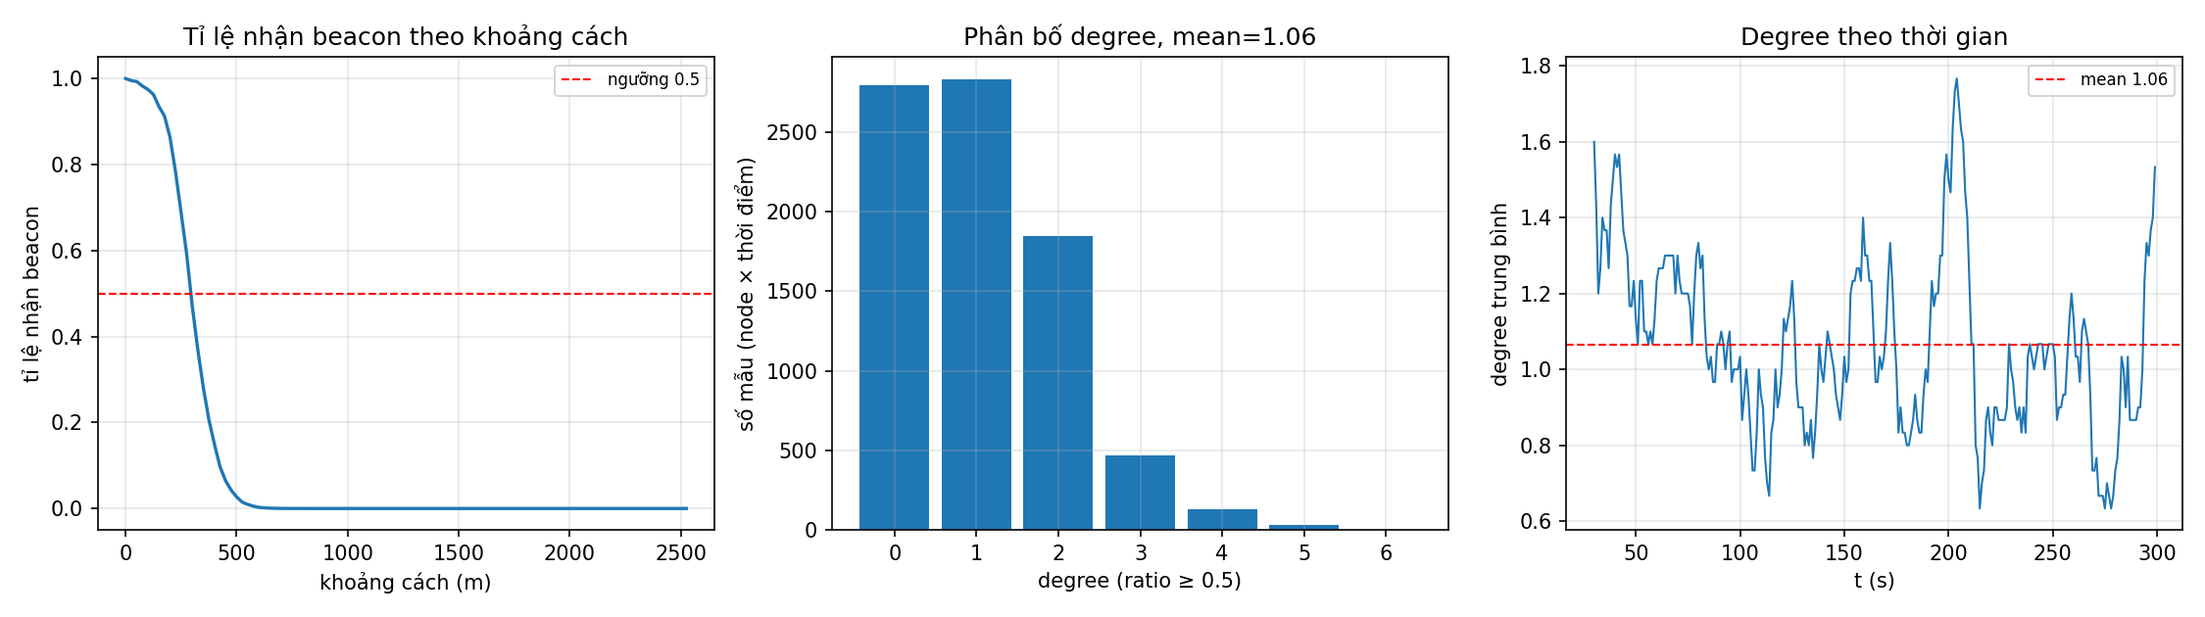
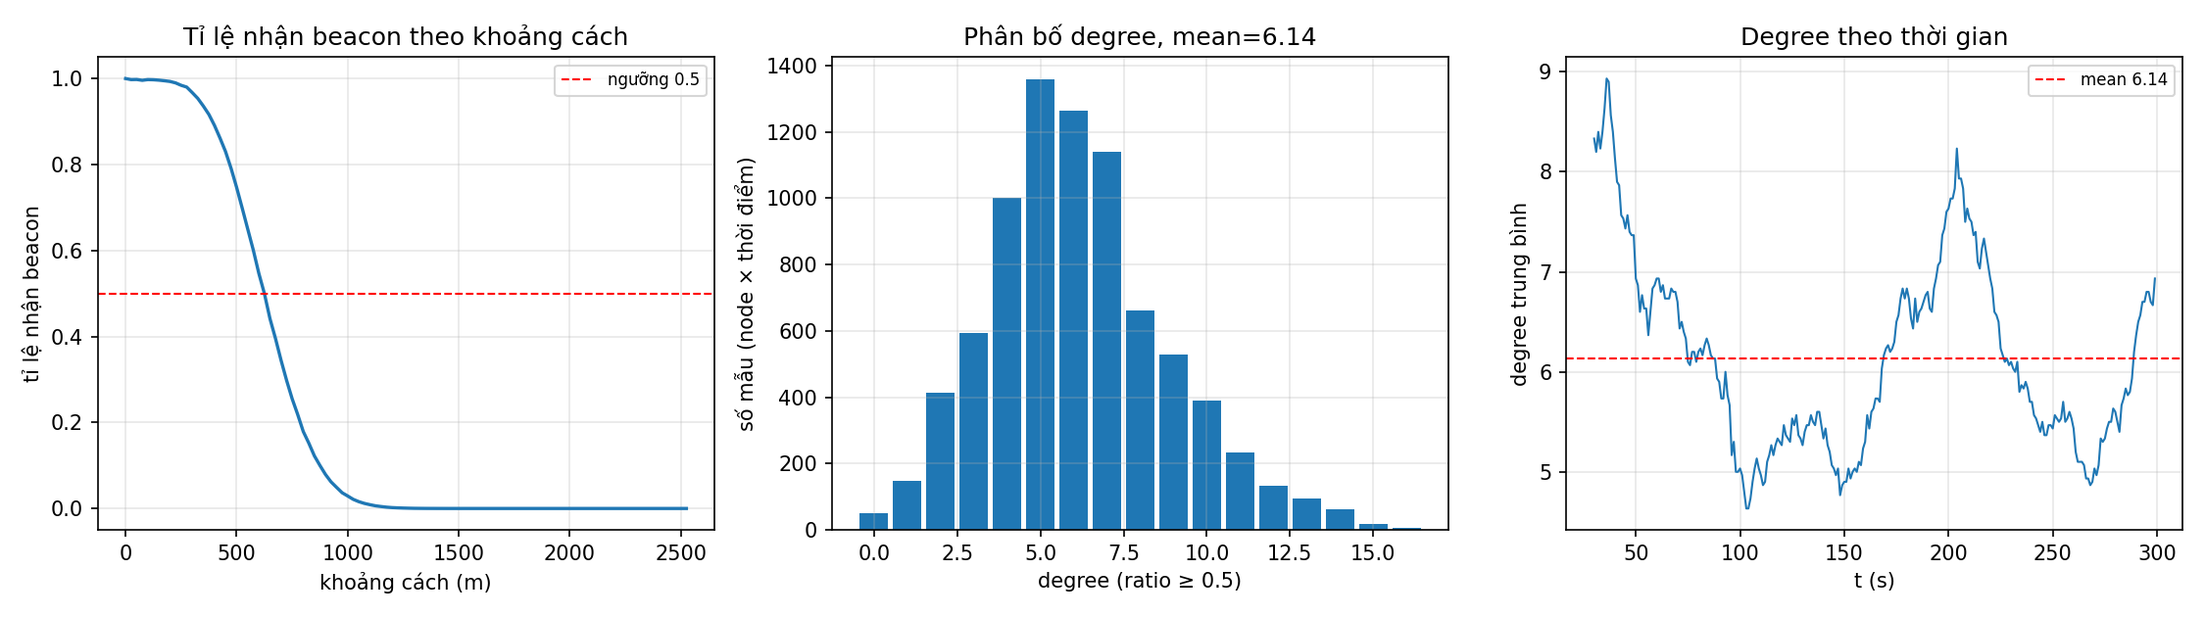
P1: bao cao -- hai cong khong dat, degree 5.28 cua conf khong tai lap duoc
Do bang topology-probe, 3 run cung seed va positions.csv byte-identical (stream
RNG cua mobility doc lap voi radio) nen la so sanh co doi chung:

  20 dBm / san -82  (conf hien tai)  R(0.5)=294 m  degree 1.06  co lap 34.5%
  19 dBm / san -101 (de xuat)        R(0.5)=625 m  degree 6.14  co lap  0.6%
  27 dBm / san -101                  R(0.5)=1458 m degree 22.33

Hai cong khong dat o cau hinh hien tai. Khong noi nguong, khong tu sua config.

conf ghi degree 5.28 o 20 dBm; do lai duoc 1.06 (chat) hoac 3.99 (long) o dung
cong suat va dung san do. Khong dinh nghia link nao cho ra 5.28. Scenario sinh
ra no khong co trong cay. Phep do moi co kiem chung noi tai ma con so kia khong
co: degree tinh tu phan bo khoang cach that trong positions.csv, doc lap voi
beacon, khop trong ~15%.

12 dBm/-101 bi loai bang so hoc: ngan sach 102 dB dung bang 20 dBm/-82.

Phat hien mobility: z-span moi node trung binh 107 m tren dai 500 m, 100% node
quet duoi nua dai. Khong don bien (lop bien 1.36x ky vong deu) nhung kich ban
la vi tri 3D voi dong luc hoc quasi-2D. Histogram gop khong thay duoc dieu nay.

Canh bao "degree > 11 lam abort" cua conf da loi thoi: run o degree 22.33 chay
het 300 s exit sach. Patch phy-entity lan dau duoc kiem that -- muc Bat thuong
5 cua P0 dong.

diff --git a/reports/P1-config.md b/reports/P1-config.md
@@ -1,0 +1,135 @@
+# P1 — Đóng băng cấu hình
+
+Ngày 2026-07-26 | Git SHA `b9013a34d` | Config SHA `9097e996ce3d2d37` (`fanet-tier2.conf` + `p1-topology.conf`)
+
+## Đã làm
+
+- **`scratch/linkscore/sim-config.h`** — parser dùng chung cho mọi scenario. Precedence `default < config < flag` (quét `--config` trong argv trước `CommandLine::Parse`, nạp file, rồi `Parse` ghi đè bằng flag tường minh). Nhiều `--config` ghép được, file sau ghi đè file trước.
+- **Registry key hai tầng.** Key ngoài `KnownKeys()` → `NS_FATAL_ERROR` (typo); key trong registry mà scenario không đọc → cảnh báo liệt kê ra. Một tầng thì config phân lớp gãy vì `topology-probe` không biết key của `link-probe`. Đã kiểm cả hai đường, kèm lối thoát `--allowUnknownKeys`.
+- Mỗi run in **provenance từng key**: `default` / tên file config / `cmdline (ghi đè <file>)`.
+- **`sim-config/p0-link-probe.conf`, `sim-config/p1-topology.conf`** — overlay, chỉ ghi chỗ lệch so với nominal. Khối physics định nghĩa **một lần** trong `fanet-tier2.conf`; khối lặp lại là khối sẽ trôi.
+- **`fanet-tier2.conf`: thêm `gmDirMin`/`gmDirMax`** (key còn thiếu, không đổi key đã có — attribute default của ns-3 vốn là `Uniform[0, 2π]` nên run cũ vẫn so sánh được).
+- **`run_manifest.py`: `--config` lặp lại được**, hash gộp theo thứ tự nạp + hash từng file. (`config_sha256` vốn đã có sẵn; P0 không dùng chỉ vì tôi tưởng chưa có file config.)
+- **Chạy lại toàn bộ P0 ở cây sạch** — 11 run, tất cả `git_dirty: false`, SHA `294c481df`, ép bằng `--fail-on-dirty`.
+- **`scratch/linkscore/topology-probe.cc`** + **`analysis/validate/p1_topology.py`** — 3 run đo topology.
+
+## Cổng nghiệm thu
+
+| Chỉ số | Ngưỡng | Đo được | Đạt |
+|---|---|---|---|
+| P0 chạy lại: σ mỗi tier khớp số cũ | ±0.02 dB | **0.000 dB** cả ba tier (1.594 / 2.026 / 2.755) | ✓ |
+| P0 chạy lại: ba cổng P0 | đều đạt | đều đạt, số liệu trùng đến 3 chữ số | ✓ |
+| Config: key sai chính tả | phải dừng | `NS_FATAL_ERROR`, chỉ đúng file:dòng | ✓ |
+| **Degree trung bình** ở config hiện tại (20 dBm / sàn −82) | [4.0, 8.0] | **1.06** | ✗ |
+| **Tỉ lệ thời gian cô lập** ở config hiện tại | ≤ 10% | **34.5%** | ✗ |
+| Mật độ lớp biên | ≤ 2× kỳ vọng đều | 1.36× (z, xấu nhất) | ✓ |
+| Degree ở cấu hình đề xuất (19 dBm / sàn −101) | [4.5, 6.5] | **6.14**, cô lập 0.6% | ✓ |
+
+**Hai cổng không đạt ở cấu hình hiện tại của `fanet-tier2.conf`.** Không nới ngưỡng, không tự sửa config — đề xuất ở dưới.
+
+## Số liệu chính
+
+### a) Degree — và số 5.28 của conf không tái lập được
+
+Ba run dùng **cùng một seed và `positions.csv` byte-identical** (stream RNG của mobility độc lập với radio), nên đây là so sánh có đối chứng: cùng hình học, chỉ khác ngân sách link.
+
+| TxPower / sàn | ngân sách | R(0.9) | R(0.5) | R(0.1) | degree chặt | degree lỏng | cô lập | 2 chiều |
+|---|---|---|---|---|---|---|---|---|
+| 20 dBm / −82 *(conf hiện tại)* | 102 dB | 182 m | **294 m** | 424 m | **1.06** | 3.99 | 34.5% | 0.99 |
+| **19 dBm / −101** | **109 dB** | 391 m | **625 m** | 875 m | **6.14** | 14.39 | 0.6% | 5.81 |
+| 27 dBm / −101 | 117 dB | 945 m | 1458 m | 2015 m | 22.33 | 28.91 | 0.0% | 21.60 |
+
+*chặt* = tỉ lệ nhận beacon ≥ 0.5 trong cửa sổ 5 s; *lỏng* = nhận được ≥ 1 beacon trong cửa sổ (gần với luật `neighborTtl` "vừa nghe thấy").
+
+**`fanet-tier2.conf` ghi degree 5.28 ở 20 dBm. Đo lại được 1.06 (chặt) hoặc 3.99 (lỏng) ở đúng công suất và đúng sàn đó.** Không định nghĩa link nào cho ra 5.28. Con số của conf đến từ `link-dataset-fanet.cc`, **không có trong cây này**, nên không truy được nguyên nhân. Coi nó là **giá trị tham chiếu tiên nghiệm, không phải kết quả đã xác lập** (theo đúng chỉ đạo).
+
+Phép đo mới có một kiểm chứng nội tại mà con số kia không có: `p1_topology.py` tính **degree kỳ vọng từ phân bố khoảng cách thật trong `positions.csv`**, hoàn toàn độc lập với beacon.
+
+| R (m) | degree hình học | so với đo bằng beacon |
+|---|---|---|
+| 300 | 0.92 | 1.06 ở R(0.5) = 294 m |
+| 600 | 5.40 | — |
+| 625 | ~6.0 | **6.14 ở R(0.5) = 625 m** |
+| 900 | 11.05 | — |
+
+Hai đường tính độc lập khớp trong ~15%. Đó là lý do tôi tin 1.06/6.14 hơn 5.28.
+
+**`12 dBm / −101` bị loại bằng số học, không cần chạy:** ngân sách của nó là 12 − (−90) = 102 dB, **đúng bằng** 20 − (−82) = 102 dB của cấu hình hiện tại. Cùng ngân sách thì cùng R, cùng degree 1.06. Lựa chọn ưu tiên số một trong khung quyết định rơi ngay ở điều kiện cần.
+
+### b) Phân bố vị trí — không dồn biên, nhưng độ cao gần như đóng băng
+
+| trục | min | max | mean | mean nếu đều | lớp biên 5% | / kỳ vọng |
+|---|---|---|---|---|---|---|
+| x | 0 | 1998 | 960 | 1000 | 10.9% | 1.09 |
+| y | 3 | 2000 | 1008 | 1000 | 9.0% | 0.90 |
+| z | 100 | 599 | 314 | 350 | 13.6% | 1.36 |
+
+Không có hiện tượng dán trần: `GaussMarkovMobilityModel::DoWalk` phản xạ (đảo dấu vận tốc **và** lật `m_meanDirection`/`m_meanPitch`), và số liệu xác nhận. Histogram z hai đỉnh ở 100/600 mà kịch bản lo — **không xảy ra**.
+
+**Nhưng z-span từng node kể một chuyện khác:**
+
+| | |
+|---|---|
+| z-span trung bình mỗi node | **107 m** / dải 500 m |
+| median | 106 m |
+| min – max | 20 – 250 m |
+| tỉ lệ node quét dưới nửa dải cao | **100%** |
+
+**Không node nào quét quá một nửa dải độ cao trong 300 s. Mỗi node ở nguyên một lát ~100 m suốt run.** Histogram gộp trông gần đều chỉ vì các lát nằm rải rác — đúng chỗ mà histogram gộp không phân biệt được, nên mới phải báo z-span từng node.
+
+Số học khớp: `MeanPitch ~ U[−0.05, +0.05]` nên một node điển hình có |pitch| ≈ 0.025 rad; ở 22 m/s cho vận tốc dọc ≈ 0.55 m/s, và Gauss-Markov dao động quanh giá trị đó chứ không đi một chiều. 270 s × 0.55 m/s ≈ 150 m là cận trên; đo được 107 m.
+
+Hệ quả: **kịch bản là vị trí 3D nhưng động lực học gần như 2D.** Độ cao hoạt động như một độ lệch tĩnh mỗi node, không phải một chiều chuyển động. RSSI slope vẫn tồn tại (do chuyển động ngang) nên P5 không hỏng, nhưng phải khai báo — không được viết "3D mobility" mà ngụ ý độ cao biến thiên.
+
+### c) Cảnh báo "degree > 11 làm abort" của conf đã lỗi thời
+
+Conf ghi `NS_ASSERT(!m_currentEvent)` ở `phy-entity.cc:490` làm abort run khi degree vượt ~11, và ngay cả ở degree ~5 thì "1 run trong 10" cũng chết.
+
+**Đo lại: run ở degree 22.33 (27 dBm) chạy hết 300 s, exit sạch.** Cả ba run topology (30 node × 300 s) đều không hit assert. Cảnh báo đó có **trước** patch trong cây hiện tại. Không gian lựa chọn ở mục (a) vì thế rộng hơn conf mô tả.
+
+Đây cũng là lần đầu patch `phy-entity` bị thử thật — báo cáo P0 ghi nó "chưa được kiểm vì mọi run đều 2 node". **Mục Bất thường 5 của P0 đóng.**
+
+## Quyết định đã chốt
+
+- **Precedence và registry hai tầng** như trên. P2 thêm key mới thì phải thêm vào `KnownKeys()` — đó chính là cơ chế bắt typo.
+- **Overlay thay vì lặp khối physics.** `p0-link-probe.conf` giữ sàn ở −82 **có chủ ý**: bảng σ của paper đo ở sàn mặc định, đổi sàn ở đó là âm thầm phá cổng tái lập ±0.02 dB.
+- **Dữ liệu P0 cũ đã bị ghi đè**, và `data/smoke/p0-sigma/` (trùng lặp với `p0-sigma-seeds/seed-1`) đã xoá để không ai trích nhầm bản có provenance chết.
+- **`--fail-on-dirty` cho mọi run có số vào paper.** Manifest sinh khi cây dirty là cái bẫy tôi đã sập hai lần; cưỡng chế bằng cờ, không bằng trí nhớ.
+
+## KHÔNG làm
+
+- **Không sửa `txPowerDbm` trong `fanet-tier2.conf`.** Đổi một giá trị đã có khác hẳn thêm một key còn thiếu; file tự ghi "changing this makes runs non-comparable". Đề xuất ở dưới, chờ duyệt.
+- **Không thêm `minRssiDbm` vào `fanet-tier2.conf`.** Cùng lý do — nó đổi hành vi mọi run tương lai.
+- **Không sửa `MeanPitch`** dù phát hiện độ cao gần đóng băng.
+- **Không chạy nhiều seed cho topology.** 1 seed, 8100 mẫu node×thời điểm. Đủ để loại 5.28 và để chọn công suất; chưa đủ để công bố phân bố degree trong paper.
+- **Không viết `link-dataset.cc`, không chạy 30 node có traffic, không fit gì.**
+
+## Bất thường / nghi ngờ
+
+1. **Không giải thích được 5.28.** Scenario sinh ra nó không có trong cây. Ba khả năng chưa loại trừ được: luật nạp neighbor khác, diện tích khác lúc đo, hoặc degree ở đó đếm neighbor tích luỹ chứ không phải tức thời. Nếu tìm lại được `link-dataset-fanet.cc` thì nên đối chiếu.
+2. **Định nghĩa link đổi degree gấp gần 4 lần** (1.06 chặt so với 3.99 lỏng ở cùng dữ liệu). Đây không phải chi tiết kỹ thuật — nó nói rằng phần lớn cặp node nằm ở vùng biên, nghe thấy nhau *một phần*. Với P2 thì đó là tin tốt (nhiều dòng ở vùng gradient), nhưng nó cũng có nghĩa **mọi con số degree phải đi kèm định nghĩa**, và `neighborTtl` của conf là một knob mạnh hơn vẻ ngoài.
+3. **`dataMode` và `channelNumber` hiện ra là `default` trong provenance**, không phải từ config. Conf cố ý không đặt key cho tốc độ ("not configurable here on purpose") nhưng vẫn ghi giá trị trong comment. Nghĩa là hai tham số vật lý của bảng Simulation Setup không được `config_sha256` ghim. Cân nhắc thêm chúng như key read-only ở P2.
+4. **Beacon 100 ms có thể tự gây nhiễu ở degree cao.** Ở 27 dBm, 300 beacon/s với ~21 người nghe mỗi beacon; tỉ lệ nhận beacon lúc đó phản ánh cả collision chứ không chỉ kênh. Không ảnh hưởng kết luận ở 19 dBm (degree 6), nhưng đừng dùng run 27 dBm để nói về chất lượng link.
+5. **Cửa sổ 5 s ở 15–30 m/s là 75–150 m di chuyển.** Tỉ lệ nhận beacon vì thế là trung bình trên một đoạn đường chứ không phải một điểm. Với ngưỡng degree thì chấp nhận được; với feature của P2 thì `featureWin = 4 s` cũng chịu đúng hiệu ứng này — đã ghi trong conf như một Limitations.
+
+## Đầu vào cho phase sau
+
+| Đường dẫn | Nội dung |
+|---|---|
+| `scratch/linkscore/sim-config.h` | Parser + registry. **P2 thêm key phải sửa `KnownKeys()`.** |
+| `sim-config/{fanet-tier2,p0-link-probe,p1-topology}.conf` | Config phân lớp |
+| `scratch/linkscore/topology-probe.cc` | Scenario đo hình học |
+| `data/smoke/p1-topology{,-19dbm-floor101,-27dbm-floor101}/` | `neighbors.csv`, `positions.csv`, `meta.json`, `summary.json`, `run_manifest.json` |
+| `figures/P1-degree.png`, `figures/P1-positions.png` | Hình |
+| `data/smoke/p0-*/` | P0 chạy lại ở cây sạch, provenance resolve được |
+
+### Hai việc phải chốt trước khi sang P2
+
+**1. Cặp (TxPower, sàn) — đề xuất `txPowerDbm = 19`, `minRssiDbm = -101`.**
+Đo được degree 6.14, cô lập 0.6%, R(0.5) = 625 m. Thoả cả điều kiện cần (degree trong [4.5, 6.5]) lẫn ưu tiên sàn dựa trên SNR. Giữ nguyên diện tích 2000×2000×500. Cần sửa hai giá trị trong `fanet-tier2.conf` nên phải anh/chị chốt.
+Lưu ý: hạ sàn ở đây **không** để "có thêm dữ liệu biên" — ở degree cố định thì R cố định và lợi ích đó bằng 0. Lý do là sàn −82 kiểm duyệt chính **feature RSSI**: dưới sàn không có mẫu nào, nên ở khoảng cách biên chỉ nửa trên của dao động fading được quan sát, và p20 của P3 sẽ bị ghim về phía mép kiểm duyệt.
+
+**2. Độ cao gần như đóng băng trong một run.** Ba lựa chọn, đều phải khai báo trong paper:
+   - *Chấp nhận* — gọi đúng tên: vị trí 3D, động lực học quasi-2D, độ cao là độ lệch tĩnh mỗi node.
+   - *Nới `MeanPitch`* — ví dụ ±0.15 rad cho vận tốc dọc ~3 m/s, quét cả dải trong ~170 s. Đổi bảng Simulation Setup và làm mọi run trước không so sánh được.
+   - *Thu dải cao* — ví dụ 100–300 m, để 107 m span là một phần đáng kể của dải.

diff --git a/STATUS.md b/STATUS.md
@@ -7,82 +7,71 @@ Cập nhật lần cuối: 2026-07-26
 
 ## Phase hiện tại
 
-**P0 xong, ba cổng đều đạt.** Chờ duyệt để sang **P1 — đóng băng cấu hình**.
-Báo cáo: `reports/P0-instrumentation.md`.
+**P1 xong về mặt công cụ, nhưng CHƯA đóng băng được config** — hai cổng không
+đạt ở giá trị hiện tại của `fanet-tier2.conf`, và việc sửa cần anh/chị chốt.
+Báo cáo: `reports/P1-config.md`. Chưa bắt đầu P2.
 
 ## Đã hoàn thành
 
-- **Khung repo**: cây thư mục theo WORKFLOW.md mục 2, `.gitignore`,
-  `scripts/run_manifest.py` (2 kiểm tra: git_dirty cảnh báo, binary cũ hơn
-  source thì exit 2), `scripts/test_feature_label_boundary.py` (kiểm hai chiều
-  bằng AST).
-- **P0**: ns-3.45 build xong (`./ns3 configure --enable-examples`, ninja, build
-  type default, assert ON). `scratch/linkscore/link-probe.cc` chạy 3 run.
-  - Cổng 1 — RSSI bám lý thuyết: |residual| max **0.0066 dB**, Spearman
-    **−1.000000**, 0 lần RSSI tăng.
-  - Cổng 2 — MAC retry: 19 973 retry / 21 072 attempt; 6 bin sạch dưới 70 m,
-    55 bin có retry. Callback không câm.
-  - Cổng 3 — residual σ theo tier Nakagami, **6 seed / 47 947 mẫu**: m=8 →
-    **1.594** (dự kiến 1.585); m=5 → **2.026** (dự kiến 2.043); m=3 →
-    **2.755** (dự kiến 2.729). Mean residual cũng khớp dự đoán Jensen ở cả ba
-    tier — hai mô men khớp đồng thời.
-  - Bất thường +0.09 dB ở 1 seed: **đã loại trừ**, gộp 6 seed cho
-    +0.0105 ± 0.0113 dB (z = +0.93). Hiện vật RNG của seed 1.
-  - Đo tầm phủ: d(0.5) = **107 m** ở 10 dBm/sàn −82; **250 m** ở 10 dBm/sàn
-    −101; **501 m** ở 17 dBm/sàn −101.
-- **11 run**, mỗi run một `run_manifest.json`. Đã commit (5 commit).
+- **Khung repo + provenance** (P0): cây thư mục theo WORKFLOW mục 2,
+  `scripts/run_manifest.py` (git_dirty + binary-vs-source mtime),
+  `scripts/test_feature_label_boundary.py`.
+- **P0 — thiết bị đo, ba cổng đạt**, đã chạy lại ở cây sạch (11 run,
+  `dirty: false`, SHA `294c481df`), số liệu trùng bản cũ đến 3 chữ số:
+  - |residual| max **0.0066 dB** so với lý thuyết; Spearman **−1.000000**.
+  - retry: 19 973 / 21 072 attempt, 6 bin sạch dưới 70 m.
+  - σ residual 6 seed: m=8 → **1.594** (dự kiến 1.585); m=5 → **2.026**
+    (2.043); m=3 → **2.755** (2.729). Mean residual cũng khớp Jensen.
+- **P1 — công cụ config**: `sim-config.h` (precedence default < config < flag,
+  registry key hai tầng: ngoài registry → fatal, trong-registry-không-dùng →
+  cảnh báo), config phân lớp, `run_manifest.py --config` lặp lại được +
+  `config_sha256`.
+- **P1 — đo hình học**: `topology-probe.cc` 30 node / 300 s / chỉ beacon.
 
-## Đang vướng
+## Đang vướng — hai việc cần anh/chị chốt
 
-Không có gì chặn. P1 chốt hai tham số, đã có số liệu thật cho cả hai:
-
-1. **`MinimumRssi` — đề xuất hạ về −101 dBm.** Mặc định ns-3 là −82 dBm, một
-   **sàn cứng trên RSSI** cao hơn giới hạn do nhiễu 7 dB. Hạ về −101 thì ràng
-   buộc chuyển sang `Threshold` (4 dB SNR) → sàn hiệu dụng −90 dBm, dựa trên
-   SNR tức dựa trên vật lý. Là attribute, không cần patch, nhưng phải khai báo
-   trong paper.
-   **Lưu ý ngược trực giác:** hạ sàn KHÔNG làm vùng waterfall rộng ra theo dB
-   (5.38 → 5.60 dB). Bề rộng đó là bề rộng phân bố fading (≈ 2.56σ), không
-   phải của đường cong PER. Nó mua **tầm phủ**, và nhờ đó vùng biên trải ra
-   nhiều mét hơn (62 → 146 m), tức nhiều cặp node ở vùng biên hơn.
-2. **TxPower — đề xuất 17 dBm**, giữ 2000×2000×500 m. Đo được d(0.5) = 501 m,
-   khớp tính toán 16.1 dBm. (Ước lượng 10 dBm → 500 m trong PLAN.md dùng
-   ngưỡng −96 dBm, quá lạc quan.)
-   **Không chốt bằng công thức degree**: chiều cao hộp ≈ R nên 2D cho 5.7, 3D
-   cho 7.6. Phải đo degree trong smoke test P2.
-
-Chi tiết và số liệu: `reports/P0-instrumentation.md`.
-
-## P2 phải làm, phát sinh từ P0
-
-1. **Nhãn per-attempt, không post-ARQ.** `1 − final_fails/first_attempts` bằng
-   đúng 1.000 suốt tới 400 m trong khi per-attempt đã tụt về 0.556 — bão hoà
-   đúng kiểu chế độ hỏng "pdr_future dồn hết ở 1.0", và `first_attempts` không
-   suy được vững từ bộ đếm cộng dồn (ra giá trị âm ở vùng chết). Dùng
-   `trials_future` = số attempt, `fails_future` = số `MacTxDataFailed`.
-2. **Ngừng probe neighbor không còn nghe thấy.** Giãn nhịp một mình không chặn
-   được backlog: 10 ms cho retry_rate 0.9478, 50 ms cho 0.9475.
-3. **Hook trace drop của `WifiMacQueue`** để đếm (không đưa vào nhãn).
+1. **Cặp (TxPower, sàn detect). Đề xuất `txPowerDbm = 19`, `minRssiDbm = -101`.**
+   Đo được degree **6.14**, cô lập 0.6%, R(0.5) = 625 m. Cấu hình hiện tại
+   (20 dBm / sàn −82 mặc định) cho degree **1.06** và cô lập **34.5%** — không
+   đạt cổng. `12 dBm/−101` bị loại bằng số học: ngân sách 102 dB đúng bằng cấu
+   hình hiện tại nên cùng degree 1.06.
+   Sửa hai giá trị đã có trong `fanet-tier2.conf` nên tôi không tự làm.
+2. **Độ cao gần như đóng băng trong một run.** z-span mỗi node trung bình
+   **107 m / dải 500 m**, **100% node quét dưới nửa dải**. Không dồn biên
+   (mật độ lớp biên 1.36× kỳ vọng đều), nhưng kịch bản là **vị trí 3D với động
+   lực học quasi-2D**. Ba lựa chọn: chấp nhận và khai báo / nới `MeanPitch` /
+   thu dải cao. Cả ba đều phải vào paper.
 
 ## Quyết định đã chốt
 
-- **Scenario C++ nằm ở `scratch/linkscore/`** (WORKFLOW.md mục 2 đã sửa). Mỗi
-  scenario một target qua `build_exec` với `EXECNAME_PREFIX scratch_linkscore_`;
-  đặt prefix khác thì ninja build được nhưng `./ns3 run` không tìm thấy target.
-- **Ba cách đo, dùng lại y hệt ở P2** (PLAN.md mục 3, chống train/deploy skew):
-  - RSSI: `MonitorSnifferRx`, trường `signalNoise.signal`.
-  - retry_rate: `MacTxDataFailed` / số PPDU data trong `MonitorSnifferTx` —
-    mẫu số lấy ở tầng MAC, không suy từ số lần gọi `Send()`, không dùng
-    `PeekHeader`.
-  - Probe: unicast L2 qua `NetDevice::Send`, Ethertype 0x88b5, cùng kích thước
-    frame data.
-- **σ dự kiến của fading suy từ hiện thực ns-3, không từ tài liệu**: độ lợi
-  công suất ~ Gamma(m, 1/m) → σ_dB = √ψ₁(m)·10/ln10 và mean_dB =
-  (ψ(m) − ln m)·10/ln10 (âm, không phải 0). Hàm ψ/ψ₁ tự viết trong
-  `analysis/validate/p0_check.py`, khớp chuỗi giải tích tới 7e-13 — scipy 1.8
-  của hệ thống không dùng được với numpy 2.x.
+- **Scenario C++ ở `scratch/linkscore/`**, mỗi `.cc` một target qua `build_exec`
+  với `EXECNAME_PREFIX scratch_linkscore_`.
+- **Ba cách đo của P0, dùng lại y hệt ở P2**: RSSI từ `MonitorSnifferRx`
+  (`signalNoise.signal`); mẫu số mọi tỉ lệ MAC từ `MonitorSnifferTx`, không từ
+  `Send()`; probe unicast L2 qua `NetDevice::Send`.
+- **Nhãn per-attempt, không post-ARQ** (CLAUDE.md quy tắc 3).
+- **Config phân lớp, không lặp khối physics.** Khối lặp lại là khối sẽ trôi.
+- **`--fail-on-dirty` cho mọi run có số vào paper.**
+- **σ dự kiến của fading suy từ hiện thực ns-3**, không từ tài liệu.
+
+## Sự thật đã đo, ghi để khỏi suy lại
+
+- **Sàn detect mặc định của ns-3 là −82 dBm** (`ThresholdPreambleDetectionModel`),
+  cao hơn giới hạn do nhiễu 7 dB. Nó kiểm duyệt cả **feature RSSI** chứ không
+  chỉ nhãn.
+- **Bề rộng vùng chuyển tiếp ≈ 2.56·σ_fading ≈ 5.4 dB**, không phụ thuộc sàn.
+  Hạ sàn mua **tầm phủ**, không mua bề rộng waterfall.
+- **degree 5.28 của `fanet-tier2.conf` không tái lập được** — đo lại ở đúng
+  20 dBm/−82 ra 1.06 (chặt) hoặc 3.99 (lỏng). Scenario sinh ra nó
+  (`link-dataset-fanet.cc`) không có trong cây. Coi là tham chiếu tiên nghiệm.
+- **Cảnh báo "degree > 11 làm abort" của conf đã lỗi thời.** Run ở degree
+  22.33 chạy hết 300 s exit sạch. **Patch `phy-entity` lần đầu được kiểm thật
+  (30 node × 300 s × 3 run, không hit assert) — mục Bất thường 5 của P0 đóng.**
+- **Định nghĩa link đổi degree gấp gần 4 lần** trên cùng dữ liệu. Mọi con số
+  degree phải đi kèm định nghĩa.
 
 ## Chưa chạm
 
-`frozen/` (rỗng), `config/` (rỗng — P1), `data/{calib,train,eval}/` (rỗng).
-`data/eval/` cấm tới P10.
+`frozen/` (rỗng), `data/{calib,train,eval}/` (rỗng). `data/eval/` cấm tới P10.
+`config/` rỗng — config thật nằm ở `sim-config/` theo CLAUDE.md; thư mục
+`config/` trong WORKFLOW mục 2 hiện không dùng.
